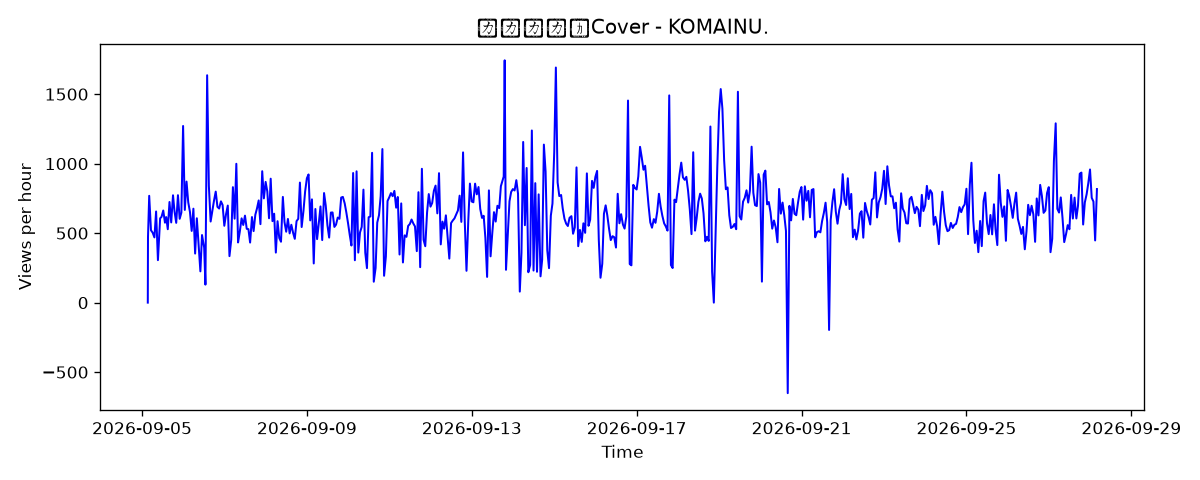
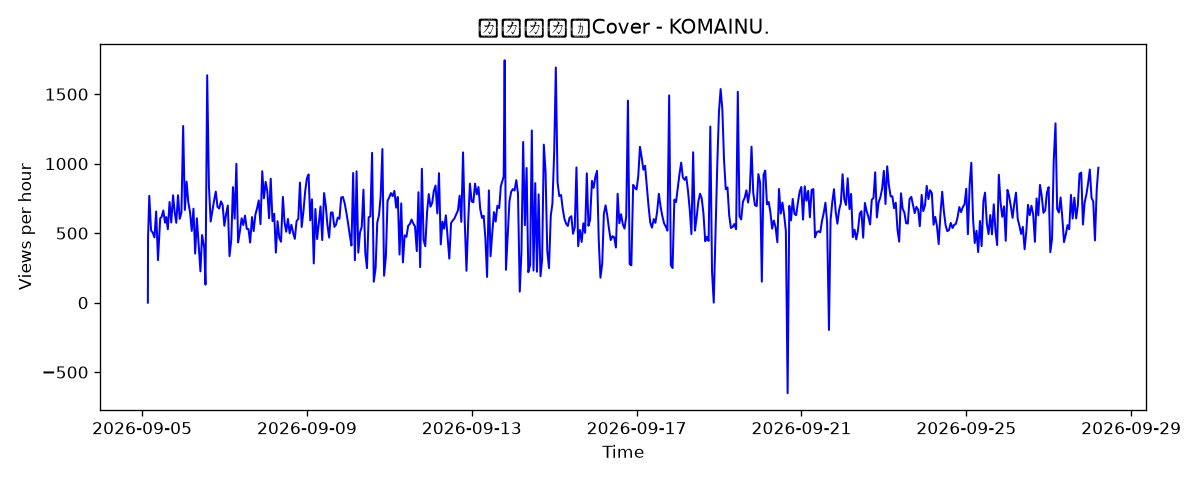
Update processed CSV and analysis report

diff --git a/analysis_report.md b/analysis_report.md
@@ -1,14 +1,14 @@
 # 📊 自動分析レポート
-生成時刻: **2026-09-27 19:00:10.932347**
+生成時刻: **2026-09-27 19:59:28.364619**
 
 ## 🏆 成長速度ランキング
 
 | videoId     |     total_growth |   avg_hourly |   max_spike |
 |:------------|-----------------:|-------------:|------------:|
 | T24rF_x0TmQ |      6.04404e+06 |    11540.6   |     3       |
-| xJQ6KrmdpD0 |      1.05646e+06 |     1906.01  |     3.06987 |
-| SnZvS3f5IrA | 362167           |      653.795 |     3       |
-| pRy8kStWlAw | 145784           |      263.135 |     3       |
+| xJQ6KrmdpD0 |      1.05798e+06 |     1905.46  |     3.06987 |
+| SnZvS3f5IrA | 363089           |      654.365 |     3       |
+| pRy8kStWlAw | 146002           |      263.075 |     3       |
 
 
 
